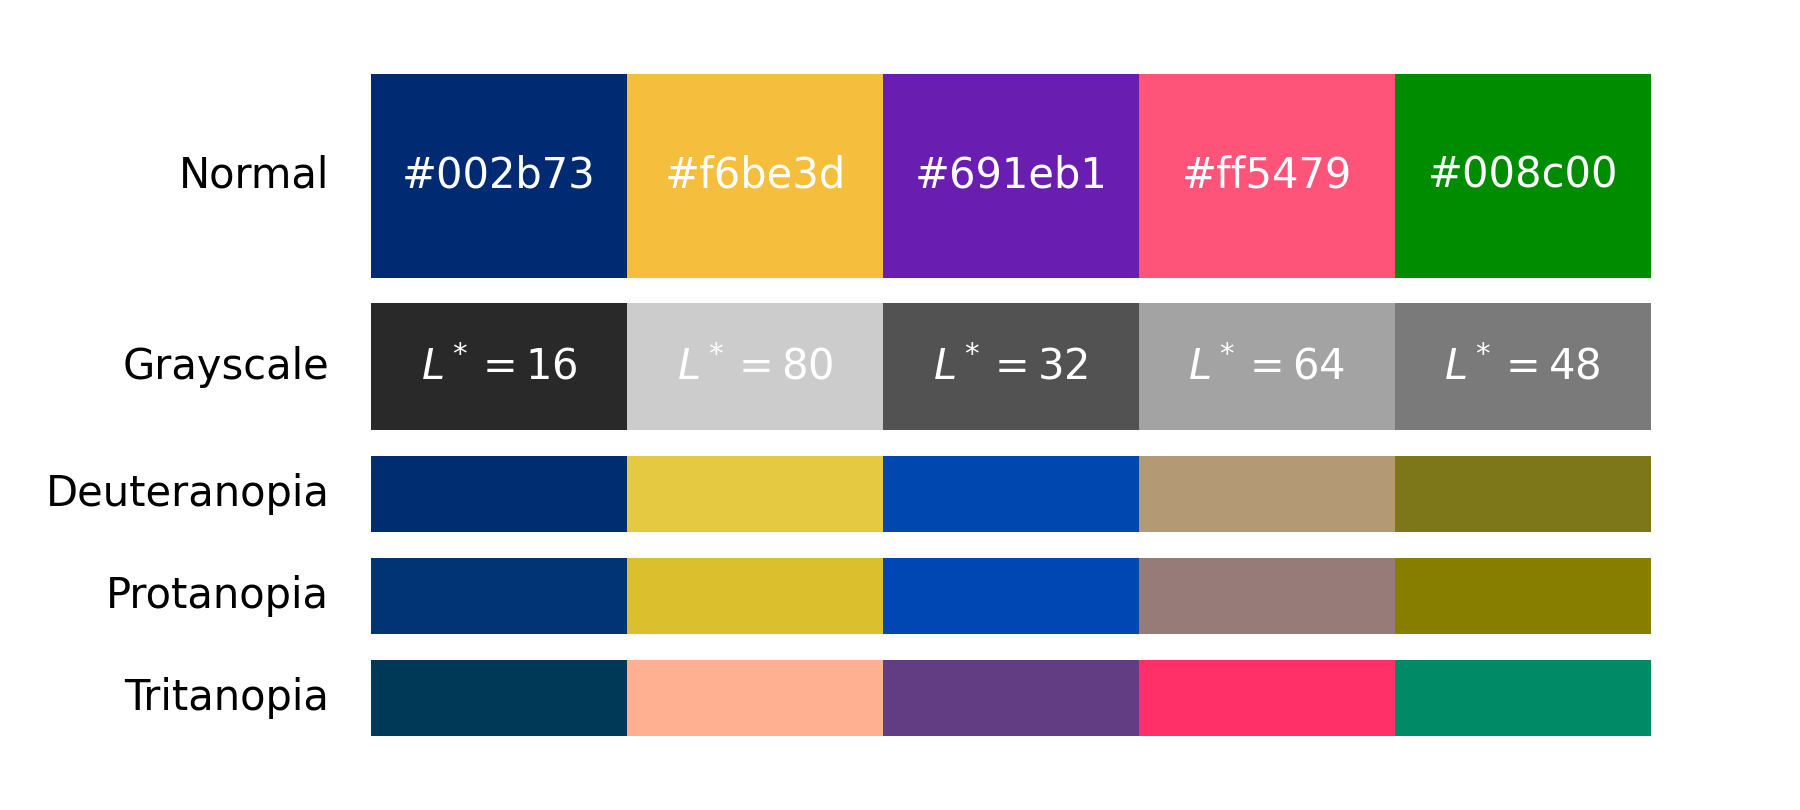
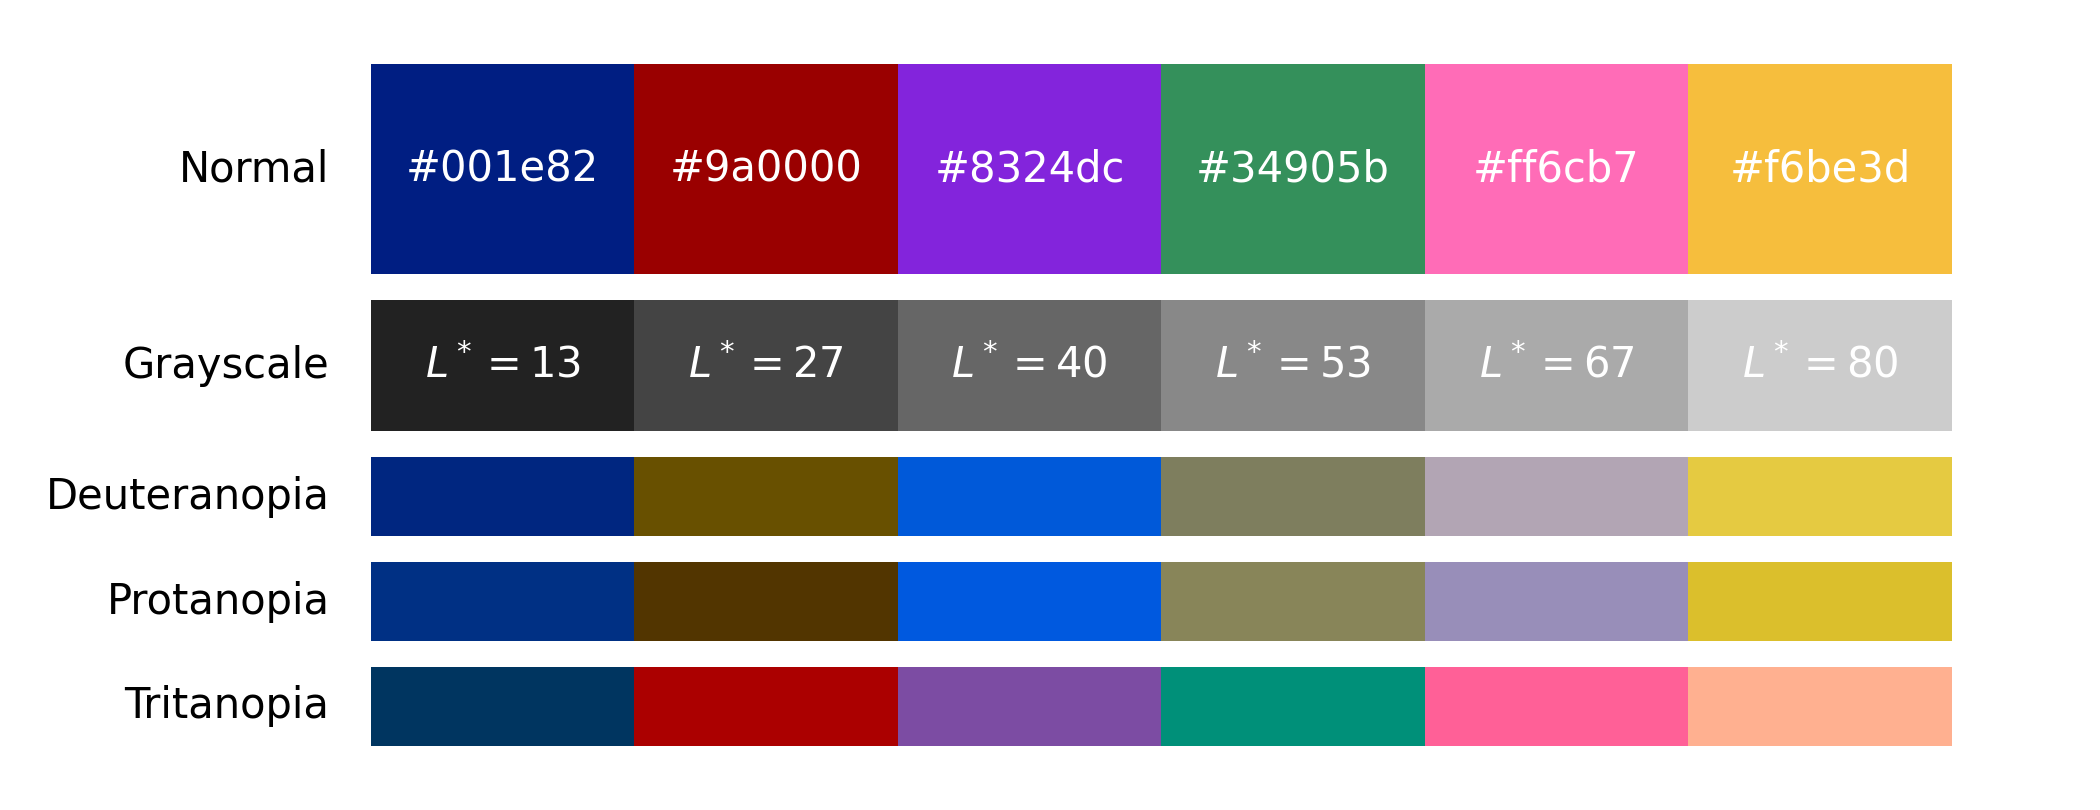
Update the palette

diff --git a/scripts/palette.py b/scripts/palette.py
@@ -4,7 +4,7 @@ This script aims to generate a personal color palette with distinguishable
 colors, which are also distinct when converted to grayscale.
 """
 
-from typing import List, Optional
+from typing import Iterable, List
 from colorspacious import cspace_convert
 from colormath.color_objects import LabColor, sRGBColor
 from colormath.color_conversions import convert_color
@@ -26,13 +26,11 @@ class Palette(List[LabColor]):
 
     colors: List[LabColor]
 
-    def __init__(self, colors: ArrayLike):
-        carr = np.asarray(colors)
-        if isinstance(carr[0], str):
-            self.colors = []
-            for c in carr:
-                rgb = sRGBColor.new_from_rgb_hex(c)
-                self.colors.append(convert_color(rgb, LabColor))
+    def __init__(self, colors: Iterable[str]):
+        self.colors = []
+        for c in colors:
+            rgb = sRGBColor.new_from_rgb_hex(c)
+            self.colors.append(convert_color(rgb, LabColor))
 
     def optimize(self):
         """Optimize the colors in terms of luminance."""
@@ -41,17 +39,15 @@ class Palette(List[LabColor]):
             c.lab_l = 80 / len(self.colors) * (i + 1)
 
         # Shuffle them.
-        new_colors = []
-        left, right = 0, len(self.colors) - 1
-        while left <= right:
-            if left == right:
-                new_colors.append(self.colors[left])
-            else:
-                new_colors.append(self.colors[left])
-                new_colors.append(self.colors[right])
-            left += 1
-            right -= 1
-        self.colors = new_colors
+        # n = len(self.colors)
+        # lower = self.colors[:n // 2]
+        # upper = self.colors[n // 2:]
+        # self.colors = []
+        # while len(lower) != 0 or len(upper) != 0:
+        #     if len(lower) != 0:
+        #         self.colors.append(lower.pop())
+        #     if len(upper) != 0:
+        #         self.colors.append(upper.pop())
 
     def show(self, save: bool = False):
         """Showcase the palette."""
@@ -65,7 +61,7 @@ class Palette(List[LabColor]):
         heights = np.asarray([0.8, 0.5, 0.3, 0.3, 0.3])
         gap = 0.1
         y = np.asarray(
-            [- sum(heights[:i]) - heights[i] * 0.5 - gap * i for i in range(5)]
+            [-sum(heights[:i]) - heights[i] * 0.5 - gap * i for i in range(5)]
         )
         meshy = np.asarray(
             [[y[i] - heights[i] / 2, y[i] + heights[i] / 2] for i in range(5)]
@@ -141,6 +137,15 @@ class Palette(List[LabColor]):
 
 
 if __name__ == "__main__":
-    palette = Palette(["#5ba0fa", "#ad5ff5", "#0cf01f", "#f0305f", "#daa520"])
+    colors = [
+        ("RoyalBlue", "#4169e1"),
+        ("OrangeRed", "#ff4500"),
+        ("BlueViolet", "#8a2be2"),
+        ("SeaGreen", "#2e8b57"),
+        ("HotPink", "#ff69b4"),
+        ("GoldenRod", "#daa520"),
+    ]
+    # palette = Palette(["#5ba0fa", "#ff0000", "#ad5ff5", "#0cf01f", "#f0305f", "#daa520"])
+    palette = Palette(map(lambda x: x[1], colors))
     palette.optimize()
     palette.show(save=True)
